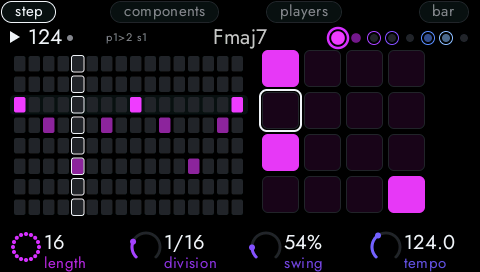
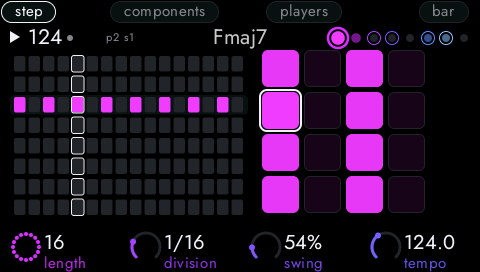
While a song plays, what is shown follows what plays (ShowPattern), PATTERN draws a progress bar on the cell that plays and refuses a tap; the twin follows

diff --git a/twin/op8-twin.html b/twin/op8-twin.html
@@ -1028,6 +1028,8 @@ function updateVisual() {
     P.tracks.forEach((tr0, t) => { const tr = patView(t, S.play[t]); S.playhead[t] = Math.floor(Math.max(0, v.eff - S.origin[t]) / DIVS[tr.div][1]) % tr.length; });
     S.chordSlot = v.slot; S.chord = v.chord; S.eff = v.eff;
   }
+  // what is shown follows what plays while the song goes (Controller::tick): each track shows the pattern it plays
+  if (S.songPos != null) P.tracks.forEach((tr, t) => { if (S.play[t] !== tr.cur) patSwitch(t, S.play[t]); });
 }
 
 // ======================= Punch-in FX =======================
@@ -1959,12 +1961,20 @@ function patternPad(pad) {
 function patternPadUp(pad) {
   if (UI.main !== "pattern" || patHeld == null || patHeld.pad !== pad) return;
   const h = patHeld; patHeld = null; if (h.copied) return;
+  if (S.playing && S.songPos != null) { UI.patNote = "the song decides what plays: stop it, or turn song off (ARRANGER, knob 7)"; return; }
   const slot = padToStep(pad); patPick(UI.track, slot, UI.shift); UI.patNote = `pattern ${slot + 1}${UI.shift ? " plays now" : ": from the next loop"}`; UI.focus = { k: "cell", i: slot };
 }
 function patternLeft(g) {
   const t = UI.track, cells = Array.from({ length: 16 }, (_, i) => [String(i + 1), !patIsEmpty(patGet(t, i))]);
   pickLeft("patterns · " + "ABCDEFGH"[t], cells, P.tracks[t].cur, false)(g);
-  const pl = S.play[t]; if (S.playing && pl !== P.tracks[t].cur) { const x = 12 + (pl % 4) * 114, y = 44 + Math.floor(pl / 4) * 48; g.fillStyle = FG; g.beginPath(); g.moveTo(x + 90, y + 8); g.lineTo(x + 100, y + 14); g.lineTo(x + 90, y + 20); g.fill(); }
+  const pl = S.play[t];
+  if (S.playing) {
+    const x = 12 + (pl % 4) * 114, y = 44 + Math.floor(pl / 4) * 48; g.fillStyle = FG;
+    if (pl !== P.tracks[t].cur) { g.beginPath(); g.moveTo(x + 90, y + 8); g.lineTo(x + 100, y + 14); g.lineTo(x + 90, y + 20); g.fill(); }
+    // where the pattern that plays is in its loop: a bar along the bottom of its cell
+    const len = Math.max(1, patGet(t, pl).length), done = Math.min(1, ((S.playhead[t] || 0) + 1) / len);
+    g.fillRect(x + 8, y + 33, 92 * done, 4);
+  }
 }
 function patternRight(g) {
   fill(g, 0, 0, 480, 272, BG); dot(g, 16, 15, 6, FG); txt(g, "patterns · " + "ABCDEFGH"[UI.track], 30, 6, "mid", FG);

diff --git a/crates/op8/src/controller.rs b/crates/op8/src/controller.rs
@@ -1122,7 +1122,9 @@ impl Controller {
                 if let Some((first, copied)) = self.pattern_held {
                     if first == pad {
                         self.pattern_held = None;
-                        if was_down && !copied {
+                        if was_down && !copied && Self::song_plays(h) {
+                            self.ui.pattern_note = "the song decides what plays: stop it, or turn song off (ARRANGER, knob 7)".into();
+                        } else if was_down && !copied {
                             let now = self.held.shift;
                             h.seq(Command::SetPattern { track, index: slot, now });
                             self.ui.pattern_note = format!("pattern {}{}", slot + 1, if now { " plays now" } else { ": from the next loop" });
@@ -2428,8 +2430,23 @@ impl Controller {
 
     /// Once per UI frame: promote long holds to the inspector, age the
     /// activity LEDs.
+    /// A song is being followed while it plays.
+    fn song_plays(h: &EngineHandle) -> bool {
+        h.status.playing.load(Relaxed) && h.status.song_step.load(Relaxed) != 255
+    }
+
     pub fn tick(&mut self, h: &mut EngineHandle, now_ms: u64) {
         self.ui.master = h.master;
+        // What is shown follows what plays while the song goes: each track shows the pattern it is playing (it changes at the start of the
+        // track's own loop, so the steps, PATTERN and the lights move by themselves, section after section).
+        if Self::song_plays(h) {
+            for t in 0..TRACKS {
+                let now = h.status.pattern[t].load(Relaxed);
+                if now != h.project.current[t] {
+                    h.seq(Command::ShowPattern { track: t as u8, index: now });
+                }
+            }
+        }
         if self.ui.main == Main::Arranger {
             let s = &h.project.song;
             self.ui.arr.steps = s.steps[..s.len as usize].iter().map(|x| (x.scene, x.bars)).collect();

diff --git a/crates/op8-ui/src/pattern.rs b/crates/op8-ui/src/pattern.rs
@@ -17,10 +17,17 @@ pub fn draw_left(fb: &mut FrameBuffer480x272, ui: &crate::UiState, p: &Project, 
     let title = format!("patterns · {}", TRACK_NAMES[track]);
     crate::files::pick_left_rows(fb, ui, st, &title, &cells, Some(p.current[track] as usize), false);
     let playing = st.pattern[track].load(Relaxed) as usize;
-    if st.playing.load(Relaxed) && playing != p.current[track] as usize {
+    if st.playing.load(Relaxed) {
         let (col, row) = ((playing % 4) as f32, (playing / 4) as f32);
         let (x, y) = (12.0 + col * (CELL_W + GAP), 44.0 + row * (CELL_H + GAP));
-        fill_convex(fb, &[(x + CELL_W - 18.0, y + 8.0), (x + CELL_W - 8.0, y + 14.0), (x + CELL_W - 18.0, y + 20.0)], t.fg);
+        if playing != p.current[track] as usize {
+            fill_convex(fb, &[(x + CELL_W - 18.0, y + 8.0), (x + CELL_W - 8.0, y + 14.0), (x + CELL_W - 18.0, y + 20.0)], t.fg);
+        }
+        // where the pattern that plays is in its loop: a bar along the bottom of its cell, that grows with the steps
+        let len = p.pattern(track, playing).map_or(16, |x| x.length.max(1)) as f32;
+        let done = ((st.playhead[track].load(Relaxed) as f32 + 1.0) / len).min(1.0);
+        let (x0, x1, y0, y1) = (x + 8.0, x + 8.0 + (CELL_W - 16.0) * done, y + CELL_H - 9.0, y + CELL_H - 5.0);
+        fill_convex(fb, &[(x0, y0), (x1, y0), (x1, y1), (x0, y1)], t.fg);
     }
 }
 

diff --git a/crates/op8/tests/arranger.rs b/crates/op8/tests/arranger.rs
@@ -72,7 +72,22 @@ fn f_k27_a_followed_song_plays_the_scenes() {
     b.press(Button::Play);
     b.run_ms(300);
     assert_eq!(b.status().song_step.load(Relaxed), 0);
-    assert_eq!(b.status().pattern[1].load(Relaxed), 1, "the song says pattern 2 although pattern 1 is the one shown");
+    assert_eq!(b.status().pattern[1].load(Relaxed), 1, "the song says pattern 2 although pattern 1 was the one shown");
+    // what is shown follows what plays, by itself
+    assert_eq!(b.project().current[1], 1, "the view moved to pattern 2");
+    b.press(Button::Group(1));
+    b.press(Button::Pattern);
+    b.run_ms(300);
+    b.capture("f-k27-song-follows");
+    assert!(b.leds().pad(pad_of(1)) & 3 == 3, "its pad is the brightest");
+    // a tap on another pattern while the song goes does nothing, and says why
+    b.tap(pad_of(5));
+    assert_eq!(b.project().current[1], 1);
+    assert!(b.ui().pattern_note.contains("the song decides"), "{}", b.ui().pattern_note);
+    // stopped, a tap works again
+    b.press(Button::Stop);
+    b.tap(pad_of(5));
+    assert_eq!(b.project().current[1], 5);
     let _ = Main::Arranger;
 }
 

diff --git a/crates/op8-seq/src/project.rs b/crates/op8-seq/src/project.rs
@@ -515,6 +515,9 @@ pub enum Command {
     InsertSongStep { index: u8, scene: u8, bars: u8 },
     /// Make the sequencer follow the song, or not.
     SetSongOn(bool),
+    /// Show pattern `index` of a track (what is shown moves to the one that plays) without asking the sequencer to play it: it changes nothing of
+    /// what plays. The song's followers use it to keep the view on what sounds.
+    ShowPattern { track: u8, index: u8 },
 }
 
 impl Project {
@@ -546,7 +549,7 @@ impl Project {
     pub fn apply(&mut self, cmd: &Command) {
         use Command::*;
         match *cmd {
-            SetPattern { track, index, .. } => {
+            SetPattern { track, index, .. } | ShowPattern { track, index } => {
                 let (t, i) = (track as usize, index as usize);
                 if t < TRACKS && i < PATTERNS && i != self.current[t] as usize {
                     // what is shown goes to its place, and the one asked for comes out of its own

diff --git a/docs/architecture.md b/docs/architecture.md
@@ -88,6 +88,7 @@ Audio runs separately, in blocks of 100 to 128 samples at 48 kHz. For each UI fr
 - **MIDI in (2026-11-17).** `midi::open_input` opens an input (CoreMIDI through `midir` on the Mac; on Linux a thread reads the raw-MIDI node without waiting) and hands over whole messages through a channel (`Parser` puts a stream of bytes together, with running status, and drops system exclusive and the real-time messages that mean nothing here; it passes the clock, start, continue and stop as one byte and the song position pointer whole, and the input thread stamps each message with the time it came in, in microseconds); `op8 run` opens the saved input at start and, each frame before drawing, gives what came in to `Controller::midi_in_at`. A note plays the selected track, or the track of its channel when the player chose that, through the same `LiveNote` the pads use (so REC writes it); a note is let go on the track it began on; controllers 7, 10 and 91 are the level, pan and reverb send of that track, and 120 and 123 release everything. A program change (0 to 7) puts the instrument of that place of PLUG-IN on the track (`Controller::put_instrument`, what a PLUG-IN pad does); the pitch wheel is `EngineCommand::PitchBend` and reaches the instrument through `InstrumentCartridge::set_pitch_bend` (±2 semitones; the instruments that have a pitch use it, the drums ignore it, and the MIDI out sends it on). A learned controller (`learn` on the `midi` page, kept as `midi_map` in the settings) sets a parameter of the track's instrument and wins over 7, 10 and 91. **Clock in** (`clockin.rs`, `midi_clock_in=on`): the tempo is the time that up to 48 pulses took by their own timestamps (so the frame rate of the main loop does not matter), given from 12 pulses on; start, continue and stop are `EngineCommand::Play`, `PlayFrom(tick)` (continue goes from the song position pointer, in sixteenths of 24 ticks) and `Stop`; the engine publishes the tick the song has reached (`EngineStatus::tick`, which a beat repeat does not loop) and the controller compares it, every sixteenth, with where the pulses say it should be (four ticks to a pulse): inside four ticks nothing is done, beyond that the tempo is bent by at most 4 % to catch up, and beyond half a quarter note the sequencer jumps. It is not locked to the sample: a start or a stop is acted on when the frame that follows it is read (a few milliseconds late), and a clock that comes from the same device as the clock out would feed on itself. No input is open until the player chooses one. The Linux branch is only compiled on the Pi.
 - **Patterns (2026-11-17).** A track plays a `Pattern` (`op8-seq` `project.rs`: steps, length, division and kit), one of sixteen. So that nothing that reads `Track.steps` had to change, the one that is shown and edited, `Project::current[track]`, lives in the track itself and the others in `Project::stored` (the place of the shown one there is always an empty pattern); `Command::SetPattern` swaps them, the same way on the sequencer's copy of the project and on the handle's mirror, so edits keep landing on the same pattern on both. What *plays* is the sequencer's own: `Sequencer` keeps, for each track, the pattern that plays (`play`), the one that waits (`queued`) and the tick at which the playing one began (`origin`, from which the steps are counted); at the tick where the playing pattern's loop starts it swaps to the queued one and counts from there, so a pattern of another length begins on its first step; `now` (or a stopped sequencer) sets it at once. The engine publishes which one plays (`EngineStatus::pattern`). A `Pattern` is 650 bytes and the 128 of them are boxed (`Project::stored`), because kept inline they made a `Project` about 90 KB and the stack of the tests overflowed; a `Project` is therefore `Clone` and no longer `Copy`.
 - **Scenes (2026-11-17).** `Project::scenes` holds sixteen `Scene { used, pattern[8], mute }`. `StoreScene` takes `current` and the tracks' `muted`; `LaunchScene` asks for each track's pattern with `SetPattern` (not `now`) and sets the mutes, in `Project::apply`, so the handle's mirror follows; the sequencer, on `LaunchScene`, also queues each track's pattern exactly as `SetPattern` does (`switch_pattern`), so each track changes at the start of its own next loop. The mutes are the project's own and change at once.
+- **What is shown follows the song (2026-11-17).** While a song is followed and plays, `Controller::tick` shows on each track the pattern the sequencer is playing (`Command::ShowPattern`: it moves what is shown, with the same swap as `SetPattern`, and the sequencer ignores it, so what plays is not touched). A tap in PATTERN is refused meanwhile, so a pattern chosen by hand cannot fight the song.
 - **The song (2026-11-17).** `Project::song` is up to sixteen `SongStep { scene, bars }` and an `on` flag. The sequencer follows it by itself, from the tick (`song_update`, a bar is `4 * PPQN` ticks, so a beat repeat does not move it): it finds the step the tick falls in, enters it when the bars of the one before are over, and goes back to the first at the end. Entering a step queues each track's pattern as `SetPattern` does, except at the start (or from a song position pointer), where it plays at once; the scene's mutes are held in the sequencer (`song_mute`, which is added to `Track::muted` in `playing_track`: a track is silent if either says so) and are not written to the project, so the handle's mirror does not see them: `EngineStatus::song_mute` publishes them (bit 8 set: the song is followed) and the screens and LEDs read the mute through `EngineStatus::muted(track, own)`, the track's own or the scene's. `EngineStatus::song_step` publishes the step (255: none).
 - **MIDI clock out (2026-11-17).** The sequencer says when it starts, on every fourth tick of its 96 per quarter note (so 24 clocks to the quarter note at any tempo) and when it stops (`BlockEvents::sync`); the engine turns them into the bytes `0xFA`, `0xF8` and `0xFC` and pushes them to a second queue (`EngineHandle::take_midi_sync`) that the MIDI thread drains before the notes. They carry their sample time but leave when the thread takes them, so the jitter is that of the thread (about 1 ms) plus the audio block. A beat repeat does not touch the clock (it counts the ticks that go by, not the ones the pattern loops). Turned on and off with `EngineCommand::MidiClock`; off while playing sends one stop. Start, stop and clock only: no song position (it would only say the top, because the unit always starts from it), and enabling it mid-play sends no start.
 - **Forbidden on the audio thread:** allocating memory. Queues are fixed-size.

diff --git a/docs/features.md b/docs/features.md
@@ -211,7 +211,7 @@ The buttons and their implementation status are in [buttons.md](buttons.md). Thi
 | F-K24 | The second page of MIXER's `output` has a third value, `side-chain` (`the mix` or `track A` to `track H`), and pressing button 8 (`sends`) again is the page `taps`, with two values: where the delay and where the reverb are taken from (`after the fader` or `before the fader`); the first press of 8 again goes back to `sends`; the 4D reaches the values of each page; both are saved with the project | `ui().mixer`, the project's `comp.side` and `sends.tap_a`, `tap_b`, `nav_items`, the screens | ✓ |
 | F-K25 | PATTERN opens both screens and is lit (again goes back); the sixteen pads are the sixteen patterns of the selected track: the one that is shown is the brightest, one with something in it is lit more than an empty one, the one that is playing, when it is another, is lit in the colour of the track and has a mark on the left screen; a tap shows that pattern (the track's steps are its own, empty if new) and plays it from the track's next loop, SHIFT + a tap plays it at once, a pad held and another tapped copies the first over the second, ERASE + a tap empties it; the 4D reaches the sixteen cells; saved with the project (format version 8) | `ui().main`, `ui().pattern_note`, the project's `current` and `pattern()`, `status().pattern`, the pad LEDs, the screens, the audio of a kick that is silenced and comes back | ✓ |
 | F-K26 | SCENE opens both screens and is lit (again goes back); the sixteen pads are the sixteen scenes: the one launched or stored last is the brightest, a stored one is lit more than an empty one; SHIFT + a tap stores the pattern each track shows and the mutes that are now, a tap brings them back (each track shows its pattern and plays it from its next loop, the mutes at once), a scene never stored says so and changes nothing, ERASE + a tap empties it; the 4D reaches the sixteen cells; saved with the project (format version 9) | `ui().main`, `ui().scene_note`, the project's `scenes`, `status().pattern`, the pad LEDs, the screens | ✓ |
-| F-K27 | ARRANGER opens both screens and is lit (again goes back); the sixteen pads are the sixteen steps of the song (the one that plays the brightest, one that exists lit more than a free one); a tap chooses a step, knob 5 puts a scene in a free step and then turns it, knob 6 sets its bars, knob 7 follows the song or not, ERASE + a tap takes a step out, SHIFT + a tap puts one in front of it (a copy of it; the later ones move down); the 4D reaches the sixteen cells; a tap in a view other than composing does not open the step inspector; a song that is followed plays the scenes from `PLAY`, and while it plays a track shows as muted on the screens and the track LEDs when its own mute is on or its scene silences it (the project's own are not touched; MUTE still works, and cannot bring back what the scene silences); the top bar of composing says the pattern that is shown (`p2`, or `p2>3` when another one plays) and the step of the song that plays (`s3`); saved with the project (format version 10) | `ui().main`, `ui().arr`, the project's `song`, `status().song_step`, `status().song_mute`, `status().muted()`, `status().pattern`, the pad LEDs, the screens | ✓ |
+| F-K27 | While a song is followed and plays, what is shown follows what plays: each track shows the pattern it is playing (it changes at the start of its own loop, without asking the sequencer for anything: `ShowPattern`), PATTERN draws a bar along the bottom of the cell that plays that grows with the loop, and a tap on a pad of PATTERN is refused with a note (stopped, it works again); the twin does the same. Besides: ARRANGER opens both screens and is lit (again goes back); the sixteen pads are the sixteen steps of the song (the one that plays the brightest, one that exists lit more than a free one); a tap chooses a step, knob 5 puts a scene in a free step and then turns it, knob 6 sets its bars, knob 7 follows the song or not, ERASE + a tap takes a step out, SHIFT + a tap puts one in front of it (a copy of it; the later ones move down); the 4D reaches the sixteen cells; a tap in a view other than composing does not open the step inspector; a song that is followed plays the scenes from `PLAY`, and while it plays a track shows as muted on the screens and the track LEDs when its own mute is on or its scene silences it (the project's own are not touched; MUTE still works, and cannot bring back what the scene silences); the top bar of composing says the pattern that is shown (`p2`, or `p2>3` when another one plays) and the step of the song that plays (`s3`); saved with the project (format version 10) | `ui().main`, `ui().arr`, the project's `song`, `status().song_step`, `status().song_mute`, `status().muted()`, `status().pattern`, the pad LEDs, the screens | ✓ |
 | F-A21 | The granular makes a cloud only while a note is held and fades after: nothing without a note; `position` chooses where in the sound the grains are cut; `density` is regular on one side of the middle, random on the other and only the note's own grain in the middle, with more grains the further from the middle; `size` is how long that grain lasts; held notes and `tune` set the pitch (an octave is twice the crossings); `spread` scatters between the speakers (none: both the same); the same notes make the same cloud, and six notes at the busiest stay finite and bounded; a sound put in a place while it plays is the one heard; an empty place is silent; the drawing shows the grains | unit tests in `granular.rs` on the audio of a tone | ✓ |
 | F-I06 | The granular can be chosen in PLUG-IN, plays a cloud from a step, has two pages (`sample, position, size, density` and `tune, texture, spread, level`), has eight presets in BROWSER, and what SAMPLING saves is heard in a granular that is already playing | `instrument(track)`, the track's audio and note count, `ui().has_second`, `ui().browse` | ✓ |
 | F-I07 | The standard tracks hold the eight instruments in the order of PLUG-IN, drums first and the MIDI out last (A drums, B KickSyn, C FmBass, D resonator, E sampler, F granular, G macro, H MIDI out): the unit starts so and with nothing in the steps (a piece is loaded from FILE), and so does every project that comes with it and a new empty one | `instrument(track)` on the unit, on each factory project and on a new empty project | ✓ |

diff --git a/docs/design.md b/docs/design.md
@@ -201,7 +201,7 @@ Like FILE (above): both screens, no footer, no strip. **Left:** the sixteen plac
 
 ### Patterns view (PATTERN)
 
-Decided with Javi on 2026-11-17. Like FILE and PLUG-IN: both screens, no footer, no strip. **Left:** the title `patterns · C` (the selected track) and the sixteen pads as sixteen cells with their numbers, one tone for all (there is nothing that comes with the machine here): a cell with something in it has a `panel` fill, the pattern that is shown (and edited) the 2 px `fg` outline, and the one that is playing, when it is another because the change waits for the start of the track's next loop, a small play mark in `fg` at the right of its cell. **Right:** the same title and three lines, `tap a pad` (shows it, plays from the next loop), `shift + tap` (plays it at once) and `hold + tap another` (copies it; erase + tap empties), and the last thing that happened as a note. **Pads:** white, level 3 on the one that is shown, 2 on one with something in it, 1 on an empty one, and the one that is playing, if it is another, in the colour of the track at level 2. A tap acts when the pad is let go, so that a pad can be held while another is tapped. **What a pattern is:** the steps, the length, the division and the kit of a track; the instrument, the effect, the LFO and the mix are the track's. **When it changes:** what is shown changes at once, so it can be edited at once; what plays changes when the track's loop starts again (the pattern then begins from its first step, also if its length or division are not the same), or on the next tick with SHIFT; a stopped sequencer plays what is shown.
+Decided with Javi on 2026-11-17. Like FILE and PLUG-IN: both screens, no footer, no strip. **Left:** the title `patterns · C` (the selected track) and the sixteen pads as sixteen cells with their numbers, one tone for all (there is nothing that comes with the machine here): a cell with something in it has a `panel` fill, the pattern that is shown (and edited) the 2 px `fg` outline, and the one that is playing, when it is another because the change waits for the start of the track's next loop, a small play mark in `fg` at the right of its cell. **While anything plays, the cell of the pattern that plays has a bar of `fg` along its bottom that grows with the steps of its loop** (decided 2026-11-17: the person must see where it is). **While a song is followed, what is shown follows what plays** (each track shows the pattern it is playing, changing at the start of its own loop, so the steps, this view, the pads and the top bar move by themselves from section to section), and a tap on a pad says `the song decides what plays` and changes nothing: to choose, stop or turn the song off. **Right:** the same title and three lines, `tap a pad` (shows it, plays from the next loop), `shift + tap` (plays it at once) and `hold + tap another` (copies it; erase + tap empties), and the last thing that happened as a note. **Pads:** white, level 3 on the one that is shown, 2 on one with something in it, 1 on an empty one, and the one that is playing, if it is another, in the colour of the track at level 2. A tap acts when the pad is let go, so that a pad can be held while another is tapped. **What a pattern is:** the steps, the length, the division and the kit of a track; the instrument, the effect, the LFO and the mix are the track's. **When it changes:** what is shown changes at once, so it can be edited at once; what plays changes when the track's loop starts again (the pattern then begins from its first step, also if its length or division are not the same), or on the next tick with SHIFT; a stopped sequencer plays what is shown.
 
 ### Scenes view (SCENE)
 
